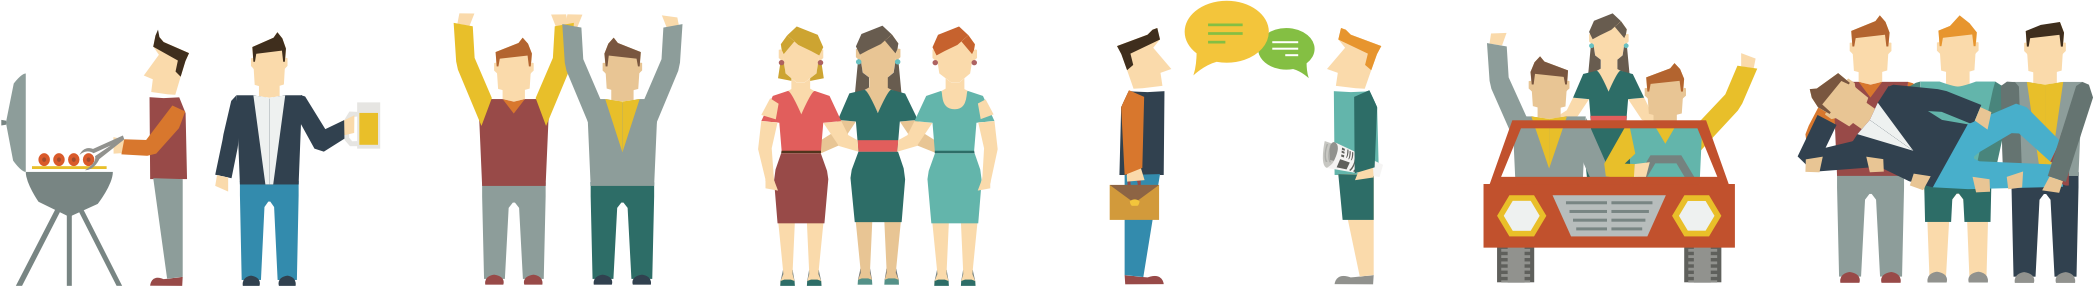
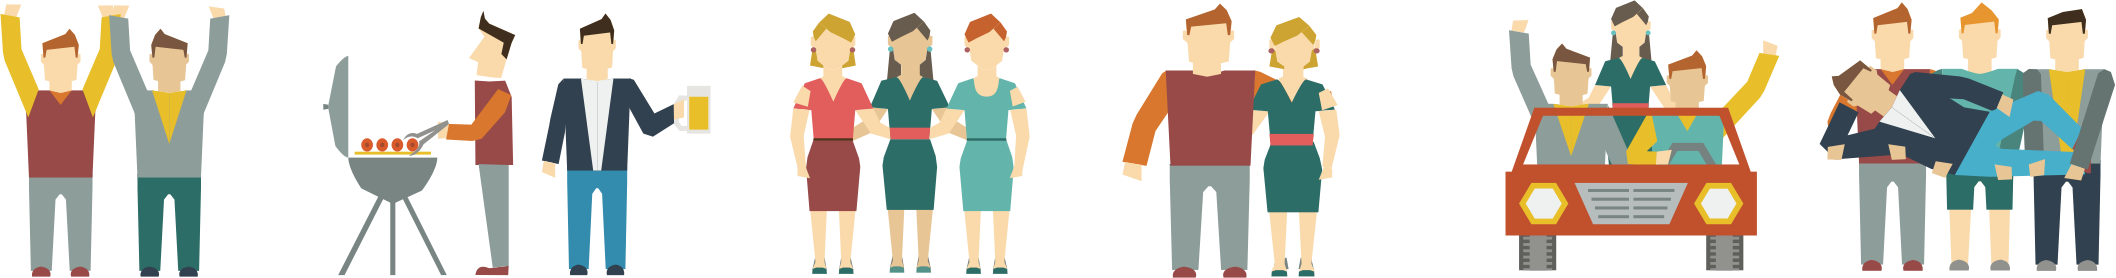
Homys image modified on landing page

diff --git a/vendor/assets/stylesheets/responsive.scss b/vendor/assets/stylesheets/responsive.scss
@@ -176,7 +176,7 @@ h2 {padding: 40px 0 0 0;font-size: 27px;}
 .homys_image {
     position: static;
 		height: 230px;
-		padding-top: 50px;
+		padding-top: 30px;
 
 }
 
